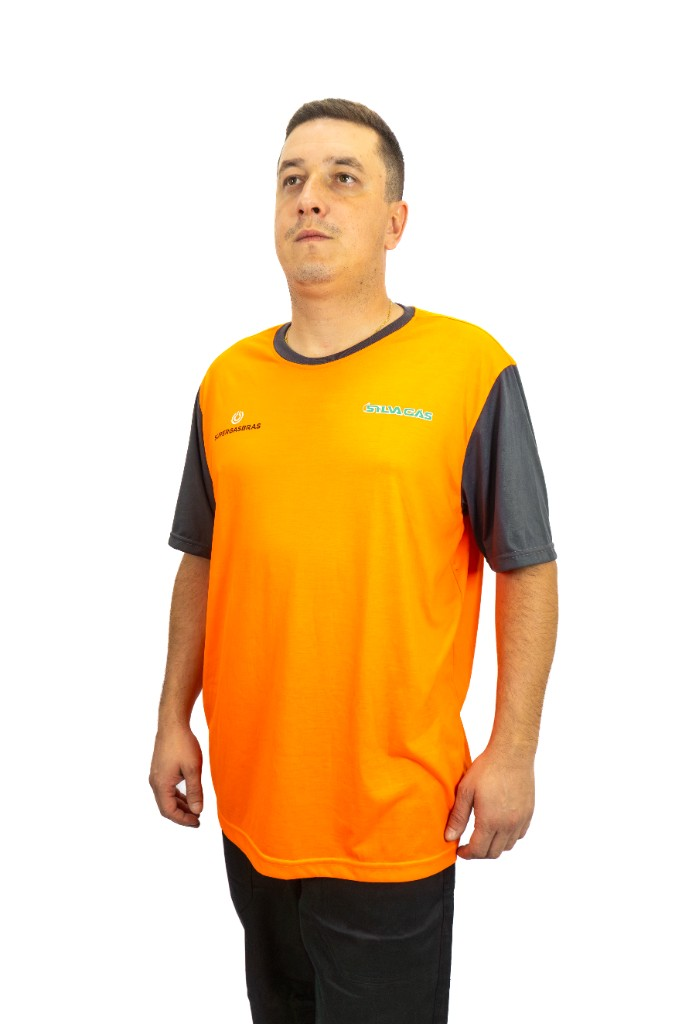
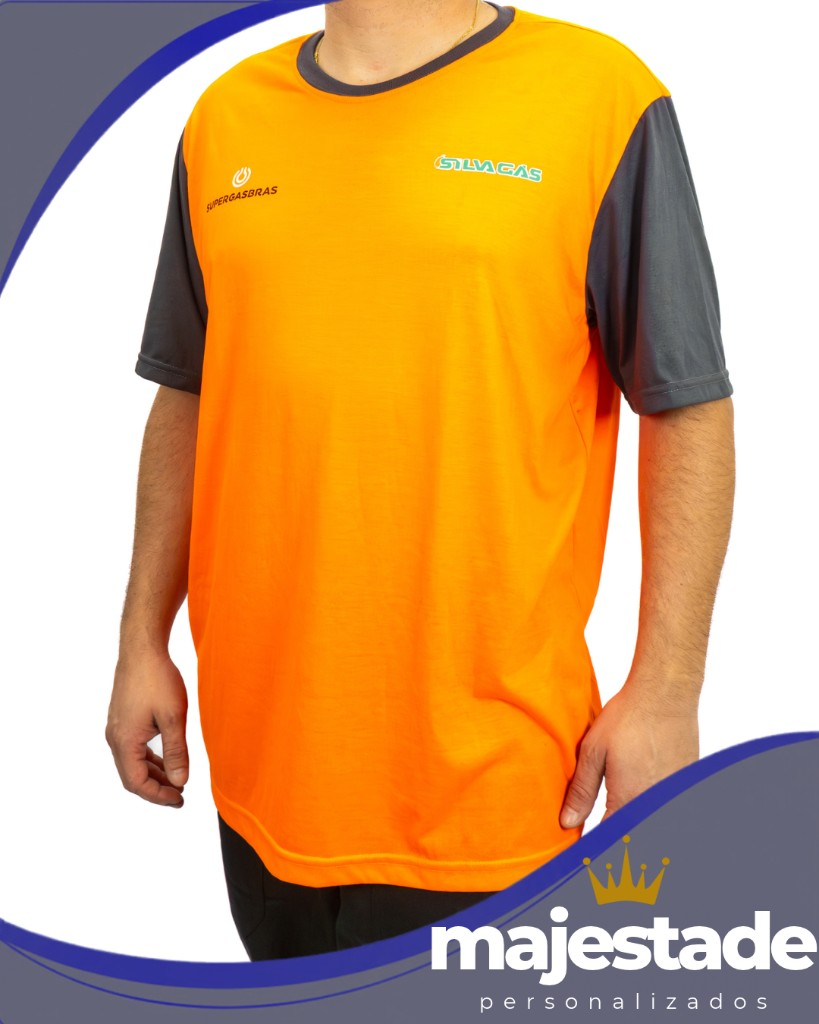
Refactor catalog components and update sitemap for improved structure and navigation.
- Removed the Catalogo page and associated components to streamline the catalog experience.
- Updated sitemap to reflect the removal of the Catalogo URL.
- Enhanced CatalogSection to utilize ordered categories for better organization.
- Adjusted navigation links to point to the new Products page instead of Catalogo.
- Updated various product images and descriptions for consistency and clarity.

diff --git a/lib/catalog.ts b/lib/catalog.ts
@@ -423,12 +423,12 @@ export const catalogCategories: CatalogCategory[] = [
     ],
   },
 
-  // ── 08. Uniformes Industriais ── refs 62–66 (27–29 aposentados) ─────────────
+  // ── 08. Uniformes Industriais ── refs 62–66 (27–29 e 65 aposentados) ────────
   {
     id: "uniformes-industriais",
     title: "Uniformes Industriais",
     description:
-      "Macacões, camisetas, polos e calças para equipes operacionais, com a identidade visual da empresa.",
+      "Macacões, camisetas e polos para equipes operacionais, com a identidade visual da empresa.",
     products: [
       {
         ref: 62,
@@ -436,18 +436,10 @@ export const catalogCategories: CatalogCategory[] = [
         name: "Macacão Industrial",
         shortDescription:
           "Macacão com bolsos, cós elástico e espaço para a marca no peito e nas costas.",
-        src: "/images/oficiais/macacao-industrial-frente.jpg",
+        src: "/images/oficiais/macacao-industrial-frente-atual.jpg",
         alt: "Macacão industrial cinza, vista de frente",
         featured: true,
         photos: [
-          {
-            src: "/images/oficiais/macacao-industrial-maleta.jpg",
-            alt: "Macacão industrial em uso, com maleta",
-          },
-          {
-            src: "/images/oficiais/macacao-industrial-lado.jpg",
-            alt: "Macacão industrial de lado",
-          },
           {
             src: "/images/oficiais/macacao-industrial-costas.jpg",
             alt: "Costas do macacão industrial",
@@ -491,36 +483,13 @@ export const catalogCategories: CatalogCategory[] = [
         alt: "Polo preta com calça cargo, vista de frente",
       },
       {
-        ref: 65,
-        id: "calca-cargo",
-        name: "Calça Cargo",
-        shortDescription:
-          "Calça cargo com bolsos laterais e traseiros, botão e zíper, para o dia a dia operacional.",
-        src: "/images/oficiais/calca-cargo-costas.jpg",
-        alt: "Calça cargo preta, vista de costas",
-        photos: [
-          {
-            src: "/images/oficiais/calca-cargo-bolso.jpg",
-            alt: "Bolso lateral da calça cargo",
-          },
-          {
-            src: "/images/oficiais/calca-cargo-cinto.jpg",
-            alt: "Cós e zíper da calça cargo",
-          },
-          {
-            src: "/images/oficiais/calca-cargo-botao.jpg",
-            alt: "Botão da calça cargo",
-          },
-        ],
-      },
-      {
         ref: 66,
         id: "blusa-manga-longa",
         name: "Blusa Manga Longa",
         shortDescription:
           "Blusa de manga longa com punho e barra em ribana, com a marca no peito.",
-        src: "/images/oficiais/blusa-manga-longa-lado.jpg",
-        alt: "Blusa preta de manga longa, vista de lado",
+        src: "/images/oficiais/blusa-manga-longa-frente.jpg",
+        alt: "Blusa preta de manga longa, vista de frente",
         photos: [
           {
             src: "/images/oficiais/blusa-manga-longa-punho.jpg",
@@ -548,7 +517,7 @@ export const catalogCategories: CatalogCategory[] = [
         name: "Jaqueta com Forro Personalizada",
         shortDescription:
           "Jaqueta matelassada com forro, bolso interno e bordado da marca na frente e nas costas.",
-        src: "/images/oficiais/jaqueta-forro-frente.jpg",
+        src: "/images/oficiais/jaqueta-forro-frente-atual.jpg",
         alt: "Jaqueta personalizada preta, vista de frente",
         photos: [
           {
@@ -579,15 +548,15 @@ export const catalogCategories: CatalogCategory[] = [
         name: "Camisa Social Branca",
         shortDescription:
           "Camisa social branca com bordado no peito, para equipes comerciais e administrativas.",
-        src: "/images/oficiais/camisa-social-branca-frente.jpg",
+        src: "/images/oficiais/camisa-social-branca-frente-atual.jpg",
         alt: "Camisa social branca personalizada, vista de frente",
         photos: [
           {
-            src: "/images/oficiais/camisa-social-branca-peito.jpg",
+            src: "/images/oficiais/camisa-social-branca-peito-atual.jpg",
             alt: "Bordado no peito da camisa social branca",
           },
           {
-            src: "/images/oficiais/camisa-social-branca-punho.jpg",
+            src: "/images/oficiais/camisa-social-branca-punho-atual.jpg",
             alt: "Punho da camisa social branca",
           },
         ],
@@ -598,15 +567,15 @@ export const catalogCategories: CatalogCategory[] = [
         name: "Camisa Social Preta",
         shortDescription:
           "Camisa social preta com bordado no peito, para uniformizar a equipe com um visual sóbrio.",
-        src: "/images/oficiais/camisa-social-preta-frente.jpg",
+        src: "/images/oficiais/camisa-social-preta-frente-atual.jpg",
         alt: "Camisa social preta personalizada, vista de frente",
         photos: [
           {
-            src: "/images/oficiais/camisa-social-preta-costas.jpg",
+            src: "/images/oficiais/camisa-social-preta-costas-atual.jpg",
             alt: "Costas da camisa social preta",
           },
           {
-            src: "/images/oficiais/camisa-social-preta-detalhe.jpg",
+            src: "/images/oficiais/camisa-social-preta-detalhe-atual.jpg",
             alt: "Bordado e punho da camisa social preta",
           },
         ],
@@ -617,16 +586,20 @@ export const catalogCategories: CatalogCategory[] = [
         name: "Camisa Social Cinza",
         shortDescription:
           "Camisa social cinza de manga longa, com punho ajustável, para o uniforme do dia a dia.",
-        src: "/images/oficiais/camisa-social-cinza-frente.jpg",
+        src: "/images/oficiais/camisa-social-cinza-frente-atual.jpg",
         alt: "Camisa social cinza, vista de frente",
         photos: [
           {
-            src: "/images/oficiais/camisa-social-cinza-costas.jpg",
+            src: "/images/oficiais/camisa-social-cinza-costas-atual.jpg",
             alt: "Costas da camisa social cinza",
           },
           {
-            src: "/images/oficiais/camisa-social-cinza-punho.jpg",
+            src: "/images/oficiais/camisa-social-cinza-punho-atual.jpg",
             alt: "Punho da camisa social cinza",
+          },
+          {
+            src: "/images/oficiais/camisa-social-cinza-peito-atual.jpg",
+            alt: "Botões da camisa social cinza",
           },
         ],
       },
@@ -635,16 +608,16 @@ export const catalogCategories: CatalogCategory[] = [
         id: "jaleco-manga-curta",
         name: "Jaleco Manga Curta",
         shortDescription:
-          "Jaleco de manga curta com bolsos frontais, para equipes operacionais e técnicas.",
-        src: "/images/oficiais/jaleco-manga-curta-frente.jpg",
+          "Jaleco de manga curta com bolsos frontais e a marca no peito e nas costas.",
+        src: "/images/oficiais/jaleco-manga-curta-frente-atual.jpg",
         alt: "Jaleco preto de manga curta, vista de frente",
         photos: [
           {
-            src: "/images/oficiais/jaleco-manga-curta-costas.jpg",
+            src: "/images/oficiais/jaleco-manga-curta-costas-atual.jpg",
             alt: "Costas do jaleco de manga curta",
           },
           {
-            src: "/images/oficiais/jaleco-manga-curta-bolso.jpg",
+            src: "/images/oficiais/jaleco-manga-curta-bolso-atual.jpg",
             alt: "Bolsos do jaleco de manga curta",
           },
         ],
@@ -981,12 +954,6 @@ export function getFeaturedProducts(limit?: number): Product[] {
   return limit ? featured.slice(0, limit) : featured;
 }
 
-export const CATALOG_PAGE_COUNT = 23;
-
-export function getCatalogPageSrc(page: number): string {
-  return `/images/catalogo-paginas/pagina-${String(page).padStart(2, "0")}.jpg`;
-}
-
 // ── Controle de referências ───────────────────────────────────────────────────
 
 /**
@@ -1011,8 +978,9 @@ export const NEXT_PRODUCT_REF = 67;
  * 27 — Macacão Industrial (ilustração)
  * 28 — Jaleco e Camisa Social (ilustração)
  * 29 — Bermuda de Uniforme (ilustração)
+ * 65 — Calça Cargo
  */
-export const RETIRED_PRODUCT_REFS = [11, 27, 28, 29, 30, 31, 32, 33, 34, 35] as const;
+export const RETIRED_PRODUCT_REFS = [11, 27, 28, 29, 30, 31, 32, 33, 34, 35, 65] as const;
 
 /**
  * Valida integridade dos refs em desenvolvimento.

diff --git a/components/sections/catalog-section.tsx b/components/sections/catalog-section.tsx
@@ -28,6 +28,16 @@ const WHATSAPP_QUOTE = buildWhatsAppUrl(
   "Olá! Gostaria de um orçamento de brindes personalizados."
 );
 
+const CATEGORY_PRIORITY = ["uniformes-industriais", "vestuario-corporativo"];
+
+const orderedCategories = [...catalogCategories].sort((a, b) => {
+  const rank = (id: string) => {
+    const index = CATEGORY_PRIORITY.indexOf(id);
+    return index === -1 ? CATEGORY_PRIORITY.length : index;
+  };
+  return rank(a.id) - rank(b.id);
+});
+
 type CatalogSectionProps = {
   title?: string;
   description?: string;
@@ -40,7 +50,7 @@ export function CatalogSection({
   const [selectedProduct, setSelectedProduct] = useState<Product | null>(null);
   const [modalOpen, setModalOpen] = useState(false);
   const [query, setQuery] = useState("");
-  const [activeCategory, setActiveCategory] = useState(catalogCategories[0]?.id ?? "");
+  const [activeCategory, setActiveCategory] = useState(orderedCategories[0]?.id ?? "");
   const sectionRefs = useRef<Map<string, HTMLDivElement>>(new Map());
 
   // Rastreia qual categoria está visível no viewport
@@ -48,13 +58,13 @@ export function CatalogSection({
     const observers: IntersectionObserver[] = [];
     const entries = new Map<string, boolean>();
 
-    catalogCategories.forEach(({ id }) => {
+    orderedCategories.forEach(({ id }) => {
       const el = sectionRefs.current.get(id);
       if (!el) return;
       const obs = new IntersectionObserver(
         ([entry]) => {
           entries.set(id, entry.isIntersecting);
-          const first = catalogCategories.find((c) => entries.get(c.id));
+          const first = orderedCategories.find((c) => entries.get(c.id));
           if (first) setActiveCategory(first.id);
         },
         { rootMargin: "-28% 0px -60% 0px" }
@@ -76,7 +86,7 @@ export function CatalogSection({
 
   const normalized = fold(query.trim());
 
-  const visibleCategories = catalogCategories
+  const visibleCategories = orderedCategories
     .map((cat) => ({
       ...cat,
       products: normalized
@@ -117,7 +127,7 @@ export function CatalogSection({
         <div className="relative flex w-full min-w-0 flex-col gap-2 px-4 py-3 sm:px-6 lg:h-14 lg:px-8 lg:py-0 xl:px-10">
           <div className="flex w-full min-w-0 gap-2 overflow-x-auto [scrollbar-width:none] [&::-webkit-scrollbar]:hidden lg:absolute lg:inset-x-0 lg:top-0 lg:h-full lg:items-center lg:justify-center lg:overflow-visible">
             <div className="flex w-max gap-1.5 lg:max-w-[calc(100%-33rem)] lg:overflow-x-auto lg:[scrollbar-width:thin]">
-            {catalogCategories.map((category) => {
+            {orderedCategories.map((category) => {
               const isActive = !normalized && activeCategory === category.id;
               return (
                 <a

diff --git a/components/sections/featured-products-section.tsx b/components/sections/featured-products-section.tsx
@@ -71,10 +71,10 @@ export function FeaturedProductsSection({ limit }: FeaturedProductsSectionProps)
         </a>
         {limit && (
           <Link
-            href="/catalogo"
-            className="text-sm text-muted-foreground transition-colors hover:text-foreground"
+            href="/produtos"
+            className="text-sm text-muted-foreground transition-colors hover:text-foreground focus-visible:outline-none focus-visible:ring-2 focus-visible:ring-accent focus-visible:ring-offset-2"
           >
-            Ver catálogo completo
+            Ver todos os produtos
           </Link>
         )}
       </div>

diff --git a/components/sections/hero-section.tsx b/components/sections/hero-section.tsx
@@ -53,10 +53,10 @@ export function HeroSection() {
               Solicitar orçamento
             </a>
             <Link
-              href="/catalogo"
+              href="/produtos"
               className="text-sm text-white/70 transition-colors hover:text-white focus-visible:outline-none focus-visible:ring-2 focus-visible:ring-white/60 focus-visible:ring-offset-2 focus-visible:ring-offset-foreground"
             >
-              Ver catálogo
+              Ver produtos
             </Link>
           </div>
         </div>

diff --git a/lib/navigation.ts b/lib/navigation.ts
@@ -3,7 +3,6 @@ import { WHATSAPP_URL } from "@/lib/contact";
 export const navLinks = [
   { href: "/", label: "Início" },
   { href: "/produtos", label: "Produtos" },
-  { href: "/catalogo", label: "Catálogo" },
   { href: "/empresa", label: "Empresa" },
 ] as const;
 
@@ -11,7 +10,6 @@ export const footerLinks = {
   navegacao: [
     { label: "Início", href: "/" },
     { label: "Produtos", href: "/produtos" },
-    { label: "Catálogo", href: "/catalogo" },
     { label: "Empresa", href: "/empresa" },
   ],
   empresa: [

diff --git a/components/sections/technology-section.tsx b/components/sections/technology-section.tsx
@@ -68,7 +68,7 @@ function ScrollRevealText({ text }: { text: string }) {
 
 const sideImages = [
   {
-    src: "/images/oficiais/macacao-industrial-frente.jpg",
+    src: "/images/oficiais/macacao-industrial-frente-atual.jpg",
     alt: "Macacão industrial personalizado",
     position: "left",
     span: 1,

diff --git a/app/sitemap.ts b/app/sitemap.ts
@@ -22,11 +22,5 @@ export default function sitemap(): MetadataRoute.Sitemap {
       changeFrequency: 'monthly',
       priority: 0.9,
     },
-    {
-      url: `${SITE_URL}/catalogo`,
-      lastModified: new Date(),
-      changeFrequency: 'monthly',
-      priority: 0.8,
-    },
   ]
 }
